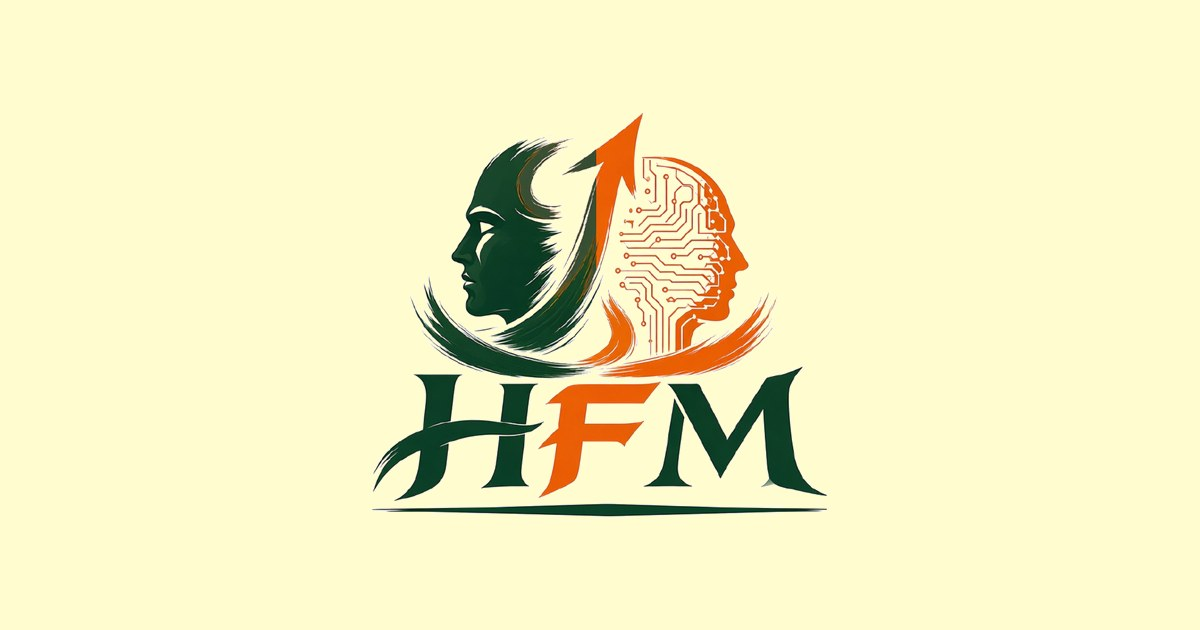
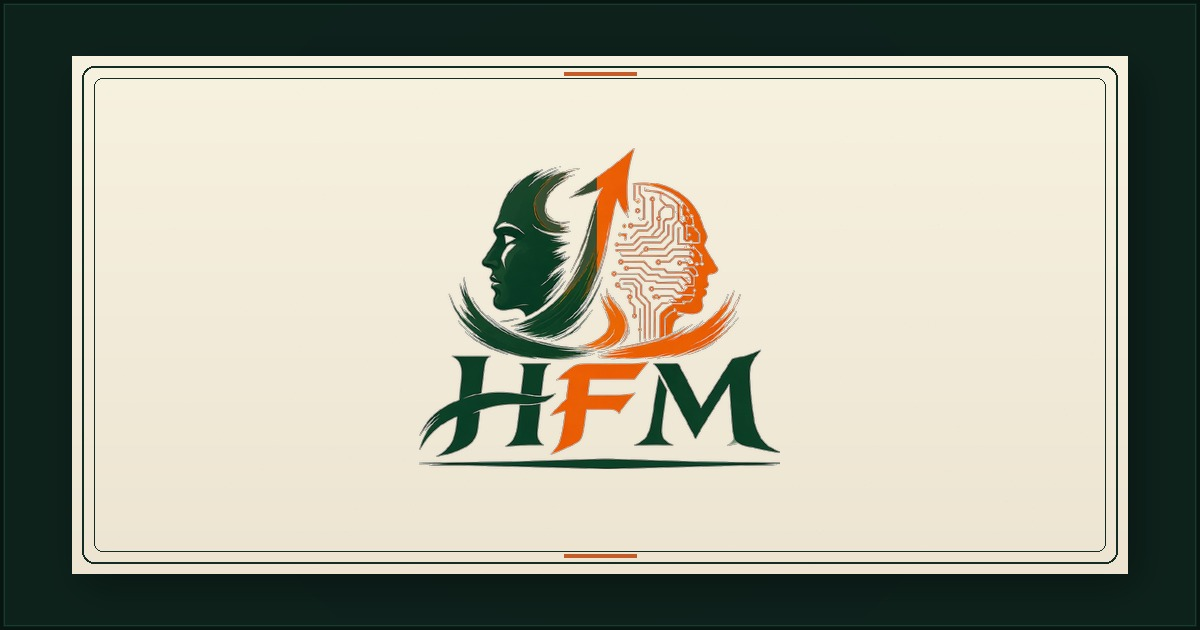
Elevate OG share card and professionalize meta copy.
Replace flat pale-yellow OG with framed ivory panel on deep green;
rewrite descriptions to drop colloquial 帮…老板 framing.

diff --git a/index.html b/index.html
@@ -4,7 +4,7 @@
 <meta charset="utf-8">
 <meta name="viewport" content="width=device-width,initial-scale=1">
 <title>多接客户，少做杂事｜Hunter Foo Media · 马来西亚与新加坡</title>
-<meta name="description" content="帮马来西亚、新加坡的老板、独立从业者和房产经纪，把定位、内容和跟进一次接好。收齐资料后 28 天交付。WhatsApp +60196273143。不是招聘中介。">
+<meta name="description" content="为马来西亚与新加坡的服务型生意，搭建定位、内容与跟进系统。资料齐备后约 28 天交付。WhatsApp +60196273143。">
 <meta name="theme-color" content="#132d25">
 <meta name="robots" content="index,follow">
 <link rel="canonical" href="https://www.hunterfoomedia.com/">
@@ -12,21 +12,21 @@
 <meta property="og:locale" content="zh_MY">
 <meta property="og:site_name" content="Hunter Foo Media">
 <meta property="og:title" content="多接客户，少做杂事｜Hunter Foo Media">
-<meta property="og:description" content="帮马来西亚、新加坡的老板、独立从业者和房产经纪，把定位、内容和跟进一次接好。远程。WhatsApp +60196273143。">
+<meta property="og:description" content="为马来西亚与新加坡的服务型生意，搭建定位、内容与跟进系统。远程服务。WhatsApp +60196273143。">
 <meta property="og:url" content="https://www.hunterfoomedia.com/">
-<meta property="og:image" content="https://www.hunterfoomedia.com/assets/og-image.jpg">
+<meta property="og:image" content="https://www.hunterfoomedia.com/assets/og-image.jpg?v=20261006b">
 <meta property="og:image:width" content="1200">
 <meta property="og:image:height" content="630">
 <meta property="og:image:alt" content="Hunter Foo Media Logo">
-<meta name="twitter:image" content="https://www.hunterfoomedia.com/assets/og-image.jpg">
+<meta name="twitter:image" content="https://www.hunterfoomedia.com/assets/og-image.jpg?v=20261006b">
 <meta name="twitter:card" content="summary_large_image">
 <meta name="twitter:title" content="多接客户，少做杂事｜Hunter Foo Media">
-<meta name="twitter:description" content="帮马来西亚、新加坡的服务型生意，把定位、内容和跟进一次接好。">
+<meta name="twitter:description" content="为马来西亚与新加坡的服务型生意，搭建定位、内容与跟进系统。">
 <link rel="icon" type="image/png" sizes="32x32" href="/assets/favicon-32.png">
 <link rel="icon" type="image/png" sizes="48x48" href="/assets/favicon-48.png">
 <link rel="apple-touch-icon" href="/assets/apple-touch-icon.png">
 <link rel="stylesheet" href="/redesign.css">
-<script type="application/ld+json">{"@context":"https://schema.org","@graph":[{"@type":"Organization","@id":"https://www.hunterfoomedia.com/#organization","name":"Hunter Foo Media","url":"https://www.hunterfoomedia.com/","logo":"https://www.hunterfoomedia.com/assets/hfm-logo.png","description":"帮马来西亚、新加坡的老板、独立从业者和房产经纪，把定位、内容和跟进一次接好。多接客户，少做杂事。不是职业中介。","email":"hello@hunterfoomedia.com","telephone":"+60196273143","areaServed":[{"@type":"Country","name":"Malaysia"},{"@type":"Country","name":"Singapore"}],"sameAs":["https://web.facebook.com/hunterfooai/","https://www.linkedin.com/in/hunterfoo3143/"],"founder":{"@id":"https://www.hunterfoomedia.com/#founder"},"contactPoint":{"@type":"ContactPoint","telephone":"+60196273143","email":"hello@hunterfoomedia.com","contactType":"customer support","availableLanguage":["zh-Hans","en"],"areaServed":["MY","SG"]}},{"@type":"WebSite","@id":"https://www.hunterfoomedia.com/#website","url":"https://www.hunterfoomedia.com/","name":"Hunter Foo Media","inLanguage":"zh-Hans","publisher":{"@id":"https://www.hunterfoomedia.com/#organization"}},{"@type":"Person","@id":"https://www.hunterfoomedia.com/#founder","name":"Hunter Foo","jobTitle":"Founder","url":"https://www.hunterfoomedia.com/#about","image":"https://www.hunterfoomedia.com/assets/hunter-foo-portrait.jpeg","sameAs":["https://www.linkedin.com/in/hunterfoo3143/"],"worksFor":{"@id":"https://www.hunterfoomedia.com/#organization"}},{"@type":"FAQPage","@id":"https://www.hunterfoomedia.com/#faq","url":"https://www.hunterfoomedia.com/#faq","inLanguage":"zh-Hans","isPartOf":{"@id":"https://www.hunterfoomedia.com/#website"},"mainEntity":[{"@type":"Question","name":"怎么知道要多少钱？","acceptedAnswer":{"@type":"Answer","text":"诊断之后，我会给你一页报价：做什么、几天、多少钱，写清楚。没有隐藏收费。代运营另计月费，不含在起步方案里。"}},{"@type":"Question","name":"我不懂 AI，也不懂技术，可以吗？","acceptedAnswer":{"@type":"Answer","text":"可以，这正是你找我的原因。你只要讲清楚现在怎么做事、卡在哪。工具我来选，做好后我教你用，还会留录屏。"}},{"@type":"Question","name":"要不要先买软件？以后每个月要付很多订阅费吗？","acceptedAnswer":{"@type":"Answer","text":"不用先买。我会先删掉不需要的步骤，能用你现有的 WhatsApp、Google 表格做的，就不加新工具。真的需要付费工具，我会事先讲清楚每月多少钱，你同意了才用。"}},{"@type":"Question","name":"多久看得到效果？","acceptedAnswer":{"@type":"Answer","text":"计时从你交齐完整资料那天起：约第 7 天拿到定位，约第 14 天拿到内容计划，第 28 天交付自动跟进流程。客户会不会变多，取决于你有没有照着发、有没有跟进。我能保证的是流程能用，不会乱承诺你多少单。"}},{"@type":"Question","name":"人在新加坡，或者不在吉隆坡，可以做吗？","acceptedAnswer":{"@type":"Answer","text":"可以，全部远程，用 WhatsApp 和视频会议。马来西亚、新加坡都是同一套服务。中文或英文都可以。"}},{"@type":"Question","name":"做完之后呢？会帮我代运营吗？","acceptedAnswer":{"@type":"Answer","text":"交付后有 30 天跟进。交付后 30 天内，免费修改 2 次；超出另议。起步方案不含代发帖、代回客户、账号代运营。若要长期代运营或每月继续做内容，另收月费，金额诊断时另报。"}}]}]}</script>
+<script type="application/ld+json">{"@context":"https://schema.org","@graph":[{"@type":"Organization","@id":"https://www.hunterfoomedia.com/#organization","name":"Hunter Foo Media","url":"https://www.hunterfoomedia.com/","logo":"https://www.hunterfoomedia.com/assets/hfm-logo.png","description":"为马来西亚与新加坡的服务型生意，搭建定位、内容与跟进系统。多接客户，少做杂事。不是职业中介。","email":"hello@hunterfoomedia.com","telephone":"+60196273143","areaServed":[{"@type":"Country","name":"Malaysia"},{"@type":"Country","name":"Singapore"}],"sameAs":["https://web.facebook.com/hunterfooai/","https://www.linkedin.com/in/hunterfoo3143/"],"founder":{"@id":"https://www.hunterfoomedia.com/#founder"},"contactPoint":{"@type":"ContactPoint","telephone":"+60196273143","email":"hello@hunterfoomedia.com","contactType":"customer support","availableLanguage":["zh-Hans","en"],"areaServed":["MY","SG"]}},{"@type":"WebSite","@id":"https://www.hunterfoomedia.com/#website","url":"https://www.hunterfoomedia.com/","name":"Hunter Foo Media","inLanguage":"zh-Hans","publisher":{"@id":"https://www.hunterfoomedia.com/#organization"}},{"@type":"Person","@id":"https://www.hunterfoomedia.com/#founder","name":"Hunter Foo","jobTitle":"Founder","url":"https://www.hunterfoomedia.com/#about","image":"https://www.hunterfoomedia.com/assets/hunter-foo-portrait.jpeg","sameAs":["https://www.linkedin.com/in/hunterfoo3143/"],"worksFor":{"@id":"https://www.hunterfoomedia.com/#organization"}},{"@type":"FAQPage","@id":"https://www.hunterfoomedia.com/#faq","url":"https://www.hunterfoomedia.com/#faq","inLanguage":"zh-Hans","isPartOf":{"@id":"https://www.hunterfoomedia.com/#website"},"mainEntity":[{"@type":"Question","name":"怎么知道要多少钱？","acceptedAnswer":{"@type":"Answer","text":"诊断之后，我会给你一页报价：做什么、几天、多少钱，写清楚。没有隐藏收费。代运营另计月费，不含在起步方案里。"}},{"@type":"Question","name":"我不懂 AI，也不懂技术，可以吗？","acceptedAnswer":{"@type":"Answer","text":"可以，这正是你找我的原因。你只要讲清楚现在怎么做事、卡在哪。工具我来选，做好后我教你用，还会留录屏。"}},{"@type":"Question","name":"要不要先买软件？以后每个月要付很多订阅费吗？","acceptedAnswer":{"@type":"Answer","text":"不用先买。我会先删掉不需要的步骤，能用你现有的 WhatsApp、Google 表格做的，就不加新工具。真的需要付费工具，我会事先讲清楚每月多少钱，你同意了才用。"}},{"@type":"Question","name":"多久看得到效果？","acceptedAnswer":{"@type":"Answer","text":"计时从你交齐完整资料那天起：约第 7 天拿到定位，约第 14 天拿到内容计划，第 28 天交付自动跟进流程。客户会不会变多，取决于你有没有照着发、有没有跟进。我能保证的是流程能用，不会乱承诺你多少单。"}},{"@type":"Question","name":"人在新加坡，或者不在吉隆坡，可以做吗？","acceptedAnswer":{"@type":"Answer","text":"可以，全部远程，用 WhatsApp 和视频会议。马来西亚、新加坡都是同一套服务。中文或英文都可以。"}},{"@type":"Question","name":"做完之后呢？会帮我代运营吗？","acceptedAnswer":{"@type":"Answer","text":"交付后有 30 天跟进。交付后 30 天内，免费修改 2 次；超出另议。起步方案不含代发帖、代回客户、账号代运营。若要长期代运营或每月继续做内容，另收月费，金额诊断时另报。"}}]}]}</script>
 </head>
 <body>
 <a class="skip" href="#main">跳到主要内容</a>
@@ -52,7 +52,7 @@
     <div>
       <div class="eyebrow">马来西亚 · 新加坡 · 服务型生意</div>
       <h1>多接客户，<br><em>少做杂事。</em></h1>
-      <p class="sub">帮马来西亚、新加坡的老板、独立从业者和房产经纪，把定位、内容和跟进<b>一次接好</b>。你继续做擅长的事，找客户和杂事交给系统。</p>
+      <p class="sub">面向马来西亚与新加坡的服务型生意：把定位、内容和跟进<b>一次接好</b>。你继续做擅长的事，获客与跟进交给系统。</p>
       <a class="btn wa" href="https://wa.me/60196273143">WhatsApp 预约 20 分钟免费诊断 →</a>
       <p class="fine">远程 · 马来西亚 / 新加坡 · 中文或英文 · 不用先买软件</p>
       <p class="en">More clients. Less busywork. For service businesses in Malaysia &amp; Singapore.</p>
